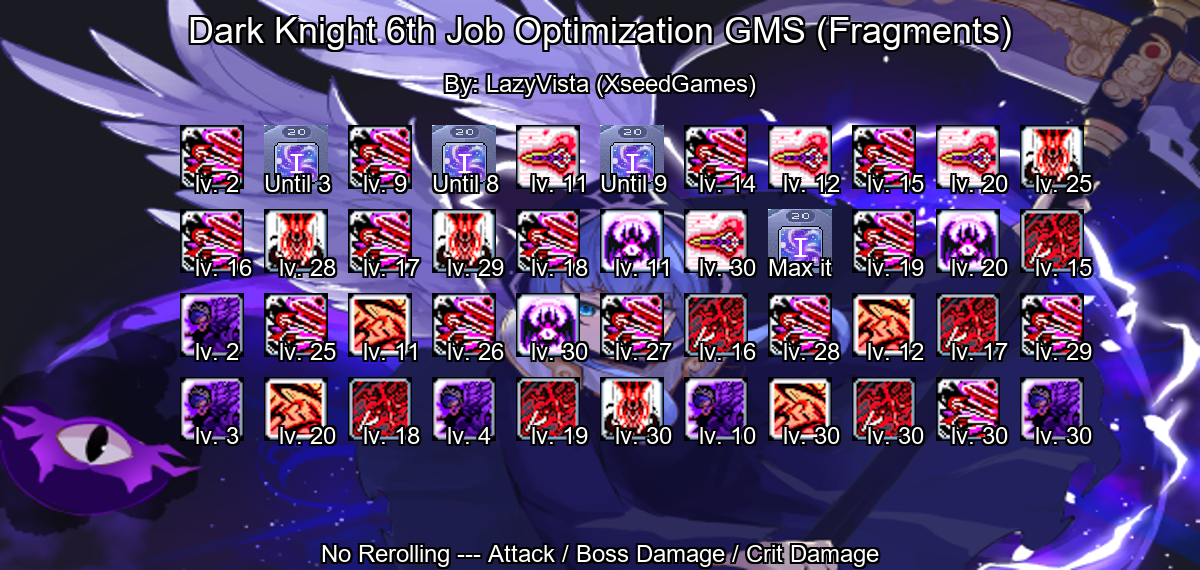
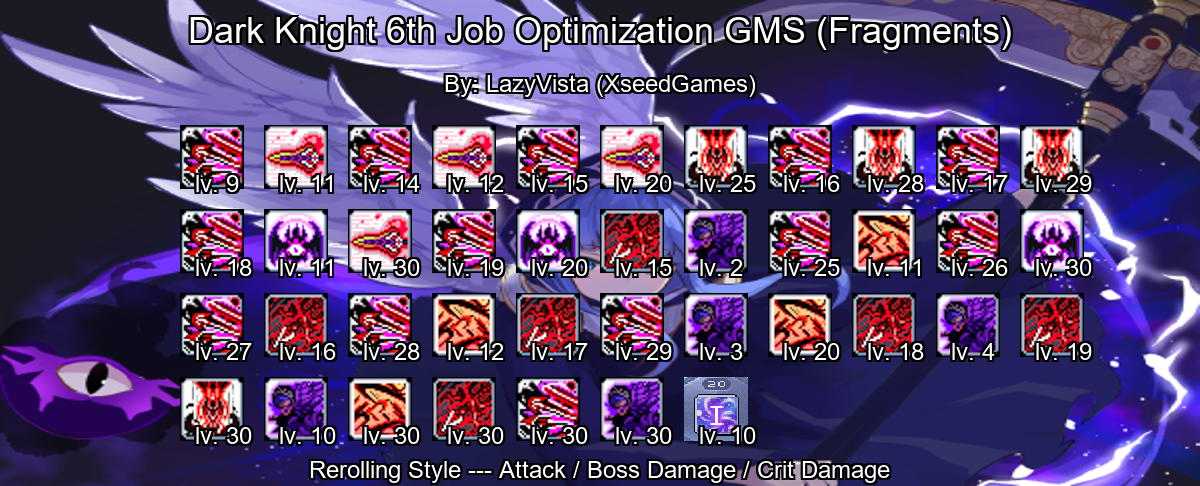
Fixed a Situation where a toggle was causing errors with Hexa_maxed

diff --git a/Auto_Infographic_Optimize/Hexa_Skill_Optimize.py b/Auto_Infographic_Optimize/Hexa_Skill_Optimize.py
@@ -12,7 +12,7 @@ import tkinter as tk
 Toggle_Stuff = {
     'Frag_Base'         :True,
     'Hexa_Stat_Include' :True,
-    'Hexa_Maxed'        :False
+    'Hexa_Maxed'        :True
     }
 # Use decimal values 98% = 0.98, 612% = 6.12, etc etc
 # Damage is Boss% + Damage%,
@@ -67,9 +67,9 @@ Additional_Numbers = {
 
 # Hexa_Stat_ Main/Alt values are only used if Toggle_Stuff['Hexa_Maxed'] is True, uses a [level,Stat] format, use the following strings of "Stat"
 # 'Crit Damage','Boss Damage','Ignore Def','Reg Damage','Attack','Stat'
-Hexa_Stat_Main  = [4 , 'Boss Damage']
-Hexa_Stat_Alt_0 = [8 , 'Attack']
-Hexa_Stat_Alt_1 = [8 , 'Stat']
+Hexa_Stat_Main  = [6 , 'Stat']
+Hexa_Stat_Alt_0 = [10, 'Attack']
+Hexa_Stat_Alt_1 = [4 , 'Crit Damage']
 
 ## VERY IMPORTANT TO FILL BOXES (DAMAGE, IED, BOSS_DEF, A_1 ..... Level_Distribution['C_1_Level'])
 ## VERY IMPORTANT TO FILL BOXES (DAMAGE, IED, BOSS_DEF, A_1 ..... Level_Distribution['C_1_Level'])
@@ -183,7 +183,7 @@ def Reverter_Multi(Value,Level_a,List_a,Level_b,List_b):
     return B, C
 
 
-def GiveMeCleanValues(Main,Current,Level,Type):
+def GiveMeCleanValues(Main,Stat_Values,Main_Multi,Alt_Multi,Current,Level,Type):
     Clean_Value = 0
     if Main == True:
         if Type == 'Ignore Def':
@@ -730,9 +730,9 @@ def Run_Main():
                 Stat_dict_tag_Alt_1 = Hexa_Stat_Alt_1[1]
                 
             # if hexa stats are already being used, then we need to recover the unmodified values
-            Stat_dict[Stat_dict_tag_Main] = GiveMeCleanValues(True,Stat_dict.get(Stat_dict_tag_Main),Hexa_Stat_Main[0],Hexa_Stat_Main[1])
-            Stat_dict[Stat_dict_tag_Alt_0] = GiveMeCleanValues(False,Stat_dict.get(Stat_dict_tag_Alt_0),Hexa_Stat_Alt_0[0],Hexa_Stat_Alt_0[1])
-            Stat_dict[Stat_dict_tag_Alt_1] = GiveMeCleanValues(False,Stat_dict.get(Stat_dict_tag_Alt_1),Hexa_Stat_Alt_1[0],Hexa_Stat_Alt_1[1])
+            Stat_dict[Stat_dict_tag_Main] = GiveMeCleanValues(True,Stat_Values,Main_Multi,Alt_Multi,Stat_dict.get(Stat_dict_tag_Main),Hexa_Stat_Main[0],Hexa_Stat_Main[1])
+            Stat_dict[Stat_dict_tag_Alt_0] = GiveMeCleanValues(False,Stat_Values,Main_Multi,Alt_Multi,Stat_dict.get(Stat_dict_tag_Alt_0),Hexa_Stat_Alt_0[0],Hexa_Stat_Alt_0[1])
+            Stat_dict[Stat_dict_tag_Alt_1] = GiveMeCleanValues(False,Stat_Values,Main_Multi,Alt_Multi,Stat_dict.get(Stat_dict_tag_Alt_1),Hexa_Stat_Alt_1[0],Hexa_Stat_Alt_1[1])
 
         # print(Stat_dict)
         Crit_Main_Mod = (Stat_Values['Crit Damage'] + 1 + Stat_dict['Crit Damage'] + (0.2 + 0.5)/2) / (1 + Stat_dict['Crit Damage'] + (0.2 + 0.5)/2)
